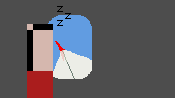
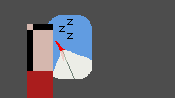
Add dead scene, change fonts

Changed region(s): [[0.3143, 0.1224, 0.4286, 0.3367], [0.3714, 0.3367, 0.4286, 0.398], [0.3143, 0.0612, 0.3714, 0.1224]]

diff --git a/src/scenes/DeadScene.ts b/src/scenes/DeadScene.ts
@@ -1,0 +1,52 @@
+export class DeadScene extends Phaser.Scene {
+  public constructor() {
+    super({
+      key: 'DeadScene',
+    });
+  }
+
+  public create() {
+    const sprite = this.add.sprite(1280 / 2, 720 / 2, 'sleep1');
+    sprite.setScale(7.5);
+    sprite.anims.play('sleep-anim');
+
+    const t1 = this.add
+      .text(1280 / 2, 720 / 2 - 310, 'This was all just a bad dream', {
+        fontFamily: 'Pixel miners',
+        fontSize: '48px',
+      })
+      .setOrigin(0.5, 0.5)
+      .setAlpha(0);
+
+    const t2 = this.add
+      .text(1280 / 2, 720 / 2 + 310, 'Press any key to restart', {
+        fontFamily: 'Pixel miners',
+        fontSize: '24px',
+      })
+      .setOrigin(0.5, 0.5)
+      .setAlpha(0);
+
+    this.cameras.main.fadeIn(1000, 0, 0, 0);
+
+    this.tweens.add({
+      targets: t1,
+      alpha: { from: 0, to: 1 },
+      duration: 1000,
+    });
+
+    this.tweens.add({
+      targets: t2,
+      alpha: { from: 0, to: 1 },
+      duration: 1000,
+    });
+
+    this.cameras.main.once(
+      Phaser.Cameras.Scene2D.Events.FADE_IN_COMPLETE,
+      (cam, effect) => {
+        this.input.keyboard.on('keydown', (): void => {
+          this.scene.start('GameScene');
+        });
+      }
+    );
+  }
+}

diff --git a/src/scenes/LoadingScene.ts b/src/scenes/LoadingScene.ts
@@ -89,6 +89,9 @@ export class LoadingScene extends Phaser.Scene {
     this.load.image('intro3-3', loadAsset('images/intro3/intro6.png'));
     this.load.image('intro3-4', loadAsset('images/intro3/intro8.png'));
     this.load.image('intro3-5', loadAsset('images/intro3/intro10.png'));
+
+    this.load.image('sleep1', loadAsset('images/intro3/sleep1.png'));
+    this.load.image('sleep2', loadAsset('images/intro3/sleep2.png'));
   }
 
   public preload(): void {
@@ -217,6 +220,22 @@ export class LoadingScene extends Phaser.Scene {
         },
         {
           key: 'intro3-2',
+          frame: 0,
+        },
+      ],
+      frameRate: 2,
+      repeat: -1,
+    });
+
+    this.anims.create({
+      key: 'sleep-anim',
+      frames: [
+        {
+          key: 'sleep1',
+          frame: 0,
+        },
+        {
+          key: 'sleep2',
           frame: 0,
         },
       ],

diff --git a/src/scenes/GameScene.ts b/src/scenes/GameScene.ts
@@ -27,6 +27,8 @@ export class GameScene extends Phaser.Scene {
 
   altitudeProvider!: AltitudeProvider;
 
+  ending = false;
+
   get characters(): Phaser.GameObjects.Sprite[] {
     return [this.player.sprite, this.stweardess.sprite];
   }
@@ -142,7 +144,21 @@ export class GameScene extends Phaser.Scene {
   }
 
   endGame = () => {
-    this.scene.restart();
+    if (this.ending) {
+      return;
+    }
+
+    this.ending = true;
+    this.cameras.main.fadeOut(1000, 0, 0, 0);
+
+    this.cameras.main.once(
+      Phaser.Cameras.Scene2D.Events.FADE_OUT_COMPLETE,
+      () => {
+        this.scene.stop();
+        this.scene.stop('UIScene');
+        this.scene.start('DeadScene');
+      }
+    );
   };
 
   public update(): void {

diff --git a/src/index.ts b/src/index.ts
@@ -8,6 +8,7 @@ import { BootScene } from './scenes/BootScene';
 import { LoadingScene } from './scenes/LoadingScene';
 import { MainMenuScene } from './scenes/MainMenuScene';
 import { GameScene } from './scenes/GameScene';
+import { DeadScene } from './scenes/DeadScene';
 
 const game = new Phaser.Game({
   type: Phaser.AUTO,
@@ -21,6 +22,7 @@ const game = new Phaser.Game({
     GameScene,
     UIScene,
     IntroScene,
+    DeadScene,
   ],
   scale: {
     parent: 'app',

diff --git a/src/objects/Slider.ts b/src/objects/Slider.ts
@@ -40,7 +40,9 @@ export class Slider implements Obstacle {
     this.sliderIndicator.setVisible(false);
 
     this.text = scene.add
-      .text(x + 8, y - 8, `Press SPACE on the green zone to repair the flap`)
+      .text(x + 8, y - 8, `Press SPACE on the green zone to repair the flap`, {
+        fontFamily: 'Pixel miners',
+      })
       .setBackgroundColor('black')
       .setDepth(5)
       .setVisible(false)

diff --git a/src/objects/ScrewObstacle.ts b/src/objects/ScrewObstacle.ts
@@ -37,7 +37,10 @@ export class ScrewObstacle implements Obstacle {
       .text(
         x + (textAlign === 'left' ? -8 : 8),
         y - 8,
-        `Press SPACE ${this.livesLeft} times to screw the screw.`
+        `Press SPACE ${this.livesLeft} times to screw the screw.`,
+        {
+          fontFamily: 'Pixel miners',
+        }
       )
       .setVisible(false)
       .setScale(1 / ZOOM)

diff --git a/src/objects/Player.ts b/src/objects/Player.ts
@@ -103,10 +103,11 @@ export class Player extends EventEmitter<'on-falling-end'> {
       targets: this.sprite,
       y: { from: this.sprite.y, to: this.sprite.y + 500 },
       duration,
-      onComplete: () => {
-        this.emit('on-falling-end');
-      },
     });
+
+    setTimeout(() => {
+      this.emit('on-falling-end');
+    }, 1000);
   };
 
   enterAirplane = () => {

diff --git a/src/objects/DiodeObstacle.ts b/src/objects/DiodeObstacle.ts
@@ -35,7 +35,10 @@ export class DiodeObstacle implements Obstacle {
       .text(
         x + (textSide === 'right' ? 8 : -8),
         y - 8,
-        'Press SPACE to fix the diode.'
+        'Press SPACE to fix the diode.',
+        {
+          fontFamily: 'Pixel miners',
+        }
       )
       .setVisible(false)
       .setBackgroundColor('black')

diff --git a/src/scenes/IntroScene.ts b/src/scenes/IntroScene.ts
@@ -44,7 +44,7 @@ export class IntroScene extends Phaser.Scene {
     intro3Bg.setVisible(false);
 
     const t1 = this.add
-      .text(1280 / 2, 720 / 2 - 310, 'This is our plane game', {
+      .text(1280 / 2, 720 / 2 - 310, "It shouldn't be doing that...", {
         fontFamily: 'Pixel miners',
         fontSize: '48px',
       })

diff --git a/src/scenes/UIScene.ts b/src/scenes/UIScene.ts
@@ -14,7 +14,7 @@ export class UIScene extends Phaser.Scene {
   }
 
   get description(): string {
-    return `ALTITUDE:  ${this.alitudeProvider.altitude.toString()}`;
+    return `ALTITUDE:  ${Math.max(this.alitudeProvider.altitude, 0)}`;
   }
 
   get altitudeBackgroundColor(): string {
